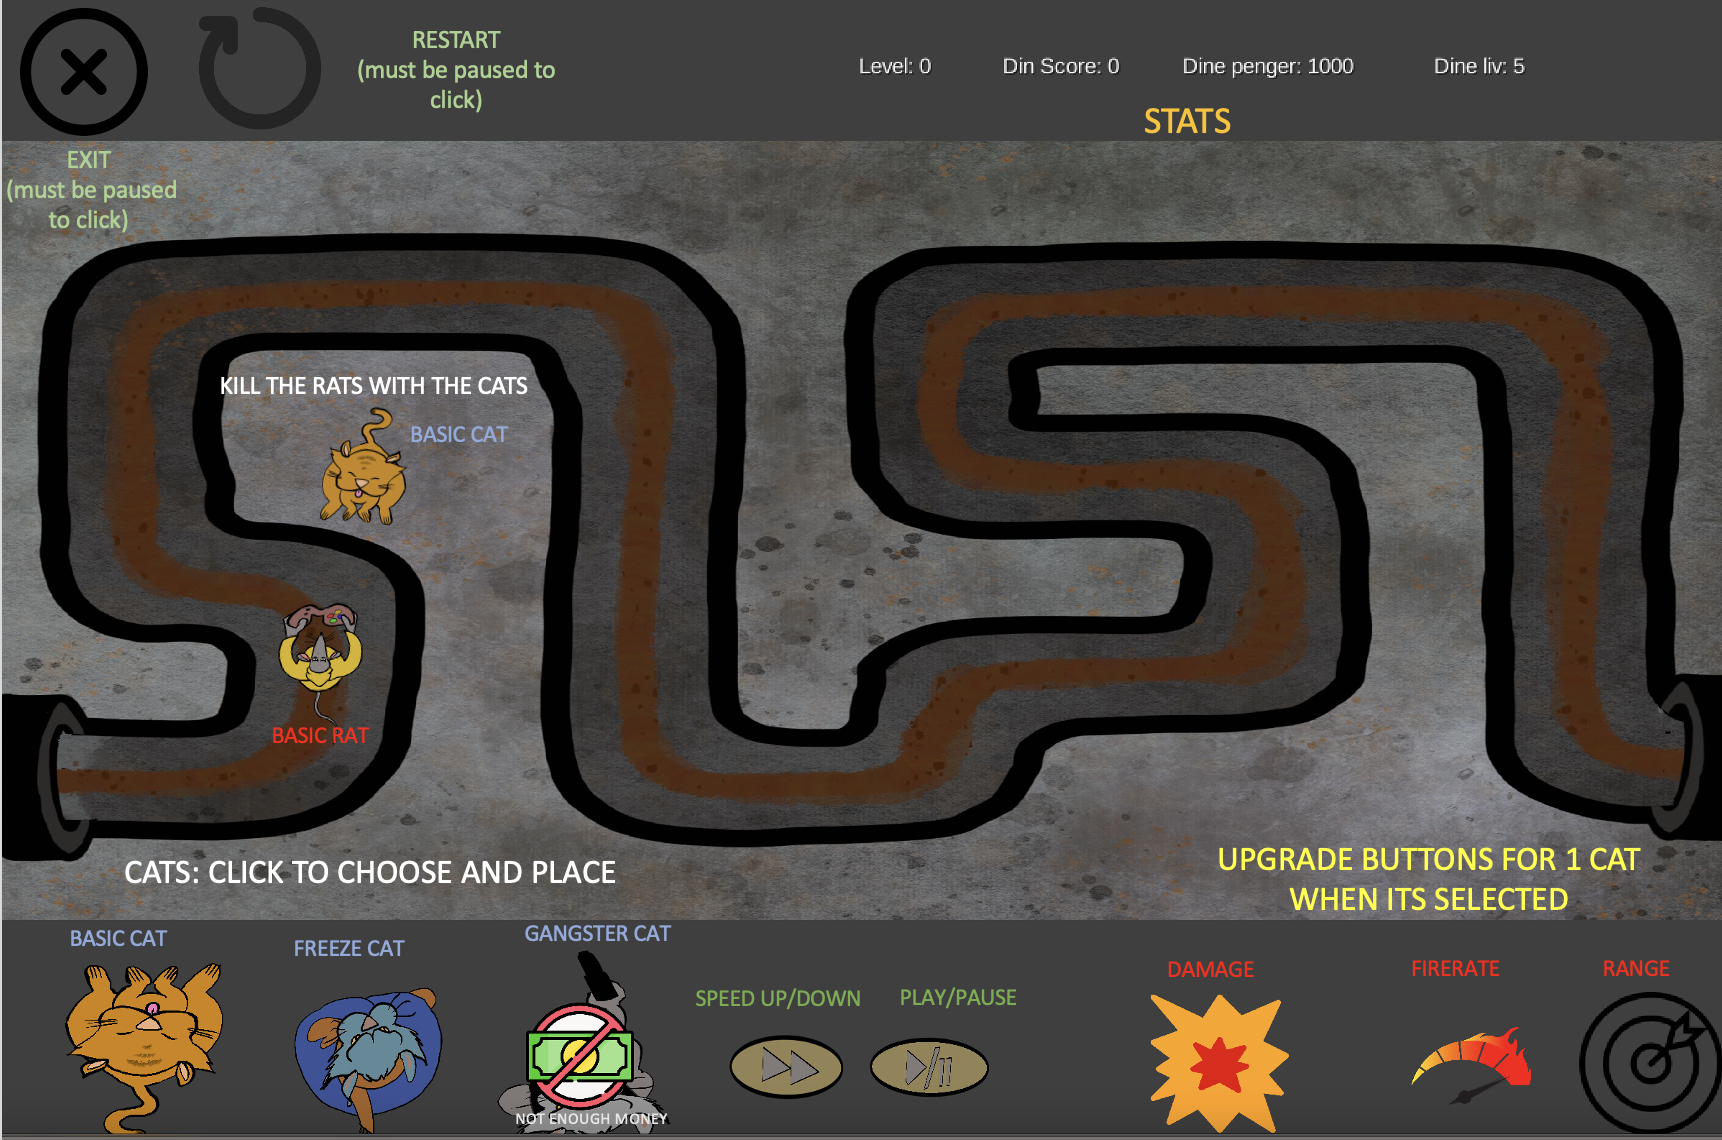
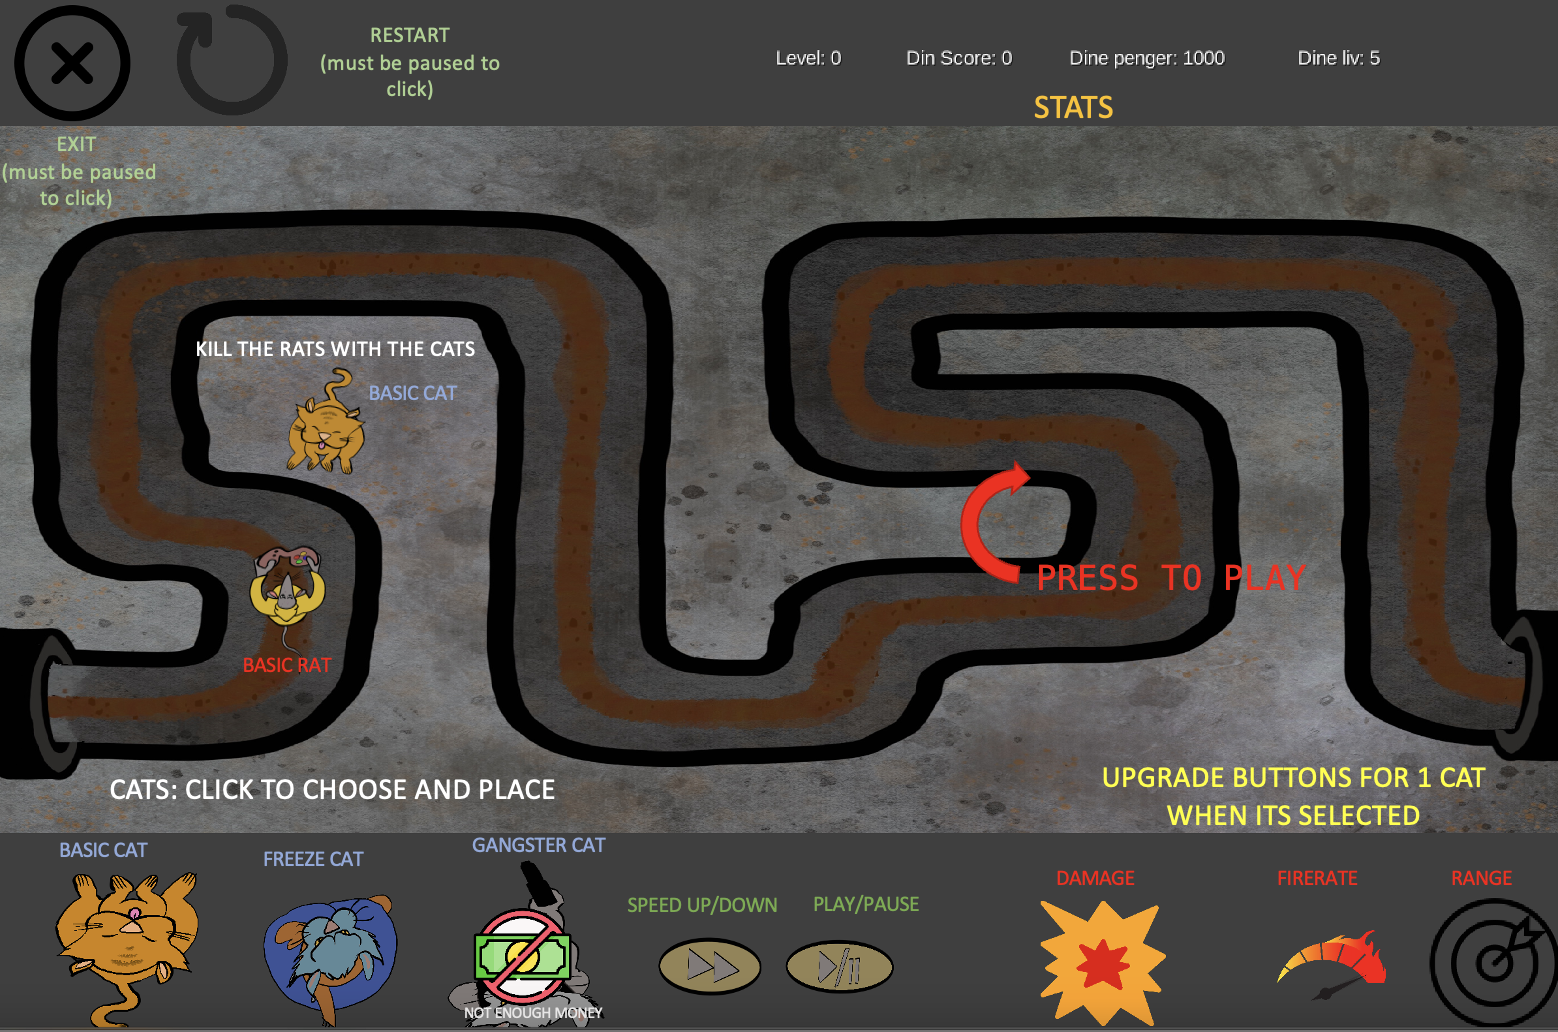
Fixed helpstate, updated pos and image for buttons, need new help image

diff --git a/src/main/java/inf112/skeleton/app/controller/buttons/menu/MenuButtons.java b/src/main/java/inf112/skeleton/app/controller/buttons/menu/MenuButtons.java
@@ -7,21 +7,20 @@ import com.badlogic.gdx.scenes.scene2d.ui.Button;
 import com.badlogic.gdx.scenes.scene2d.utils.ClickListener;
 import com.badlogic.gdx.scenes.scene2d.utils.TextureRegionDrawable;
 
-
 import inf112.skeleton.app.controller.buttons.ButtonFactory;
 import inf112.skeleton.app.model.SkadedyrModel;
 import inf112.skeleton.app.view.States.PlayState;
+import inf112.skeleton.app.view.States.HelpState;
 import inf112.skeleton.app.view.States.MenuState;
-
-
 
 public class MenuButtons implements IMenuButtons {
     private SkadedyrModel model;
     private Stage stage;
     private Button pauseButton;
     private Button speedButton;
-    private final static int BUTTON_HEIGHT=50; 
-    
+    private final static int BUTTON_HEIGHT = 50;
+    private final static int MENU_BUTTONS_HEIGHT = 750;
+
 
     public MenuButtons(SkadedyrModel model, Stage stage) {
         this.model = model;
@@ -32,8 +31,8 @@ public class MenuButtons implements IMenuButtons {
     @Override
     public Button exitButton() {
         Button exitButton = ButtonFactory.createImageButton("buttons_game/Spill_Exit.png", "buttons_game/angryCat.png");
-        exitButton.setSize(100, 100);
-        exitButton.setPosition(10, 740);
+        exitButton.setSize(150, 75);
+        exitButton.setPosition(5, MENU_BUTTONS_HEIGHT);
         exitButton.addListener(new ClickListener() {
             @Override
             public void clicked(com.badlogic.gdx.scenes.scene2d.InputEvent event, float x, float y) {
@@ -49,7 +48,7 @@ public class MenuButtons implements IMenuButtons {
         pauseButton = ButtonFactory.createImageButton("buttons_game/Spill_Pause_Pause.png",
                 "buttons_game/Spill_Pause_Play.png");
         pauseButton.setSize(100, 100);
-        pauseButton.setPosition(600, 70);
+        pauseButton.setPosition(440, MENU_BUTTONS_HEIGHT - 10);
         pauseButton.addListener(new ClickListener() {
             @Override
             public void clicked(com.badlogic.gdx.scenes.scene2d.InputEvent event, float x, float y) {
@@ -62,12 +61,20 @@ public class MenuButtons implements IMenuButtons {
 
     @Override
     public Button playButton() {
-        Button playButton = ButtonFactory.createImageButton("buttons_game/Spill_Play_Up.png", "buttons_game/Spill_Play_Down.png");
+
+        Button playButton = ButtonFactory.createImageButton("buttons_game/Spill_Play_Up.png",
+                "buttons_game/Spill_Play_Down.png");
         playButton.setSize(200, 100);
-        if (model.getState() instanceof MenuState) {
-            playButton.setPosition((stage.getWidth() - playButton.getWidth()) / 2, stage.getHeight() - 500); 
-        } else {
-            playButton.setPosition(500, 500);
+
+        if (model.getState() instanceof PlayState) {
+            playButton.setPosition(800, 400);
+
+        } else if (model.getState() instanceof MenuState) {
+            playButton.setPosition(800, 400);
+        }
+
+        else {
+            playButton.setPosition((stage.getWidth() - playButton.getWidth()) / 2 - 200, BUTTON_HEIGHT);
         }
         playButton.addListener(new ClickListener() {
             @Override
@@ -83,31 +90,32 @@ public class MenuButtons implements IMenuButtons {
         Button helpButton = ButtonFactory.createImageButton("buttons_game/Spill_Help.png",
                 "buttons_game/Spill_Help.png");
         helpButton.setSize(100, 100);
-        
+
         if (model.getState() instanceof MenuState) {
-            helpButton.setPosition((stage.getWidth() - helpButton.getWidth()) / 2, stage.getHeight() - 200); 
+            helpButton.setPosition(340, MENU_BUTTONS_HEIGHT - 10);
+        } else if (model.getState() instanceof HelpState) {
+            helpButton.setPosition(340, MENU_BUTTONS_HEIGHT - 10) ;
         } else {
-            helpButton.setPosition(270, 750);
+            helpButton.setPosition((stage.getWidth() - helpButton.getWidth()) / 2 + 200, BUTTON_HEIGHT);
         }
 
         helpButton.addListener(new ClickListener() {
             @Override
             public void clicked(com.badlogic.gdx.scenes.scene2d.InputEvent event, float x, float y) {
-                if(model.isPaused())
+                if (model.isPaused())
                     model.setHelp();
-              
+
             }
         });
         return helpButton;
     }
 
-
     @Override
     public Button restarButton() {
         Button restartButton = ButtonFactory.createImageButton("buttons_game/Spill_Restart.png",
                 "buttons_game/angryCat.png");
-        restartButton.setSize(85, 85);
-        restartButton.setPosition(140, 750);
+        restartButton.setSize(150, 75);
+        restartButton.setPosition(140, MENU_BUTTONS_HEIGHT);
         restartButton.addListener(new ClickListener() {
             @Override
             public void clicked(com.badlogic.gdx.scenes.scene2d.InputEvent event, float x, float y) {
@@ -122,7 +130,7 @@ public class MenuButtons implements IMenuButtons {
     public Button speedButton() {
         speedButton = ButtonFactory.createImageButton("buttons_game/Spill_FF.png", "buttons_game/Spill_FF_Down.png");
         speedButton.setSize(100, 100);
-        speedButton.setPosition(500, 70);
+        speedButton.setPosition(540, MENU_BUTTONS_HEIGHT - 10);
         speedButton.addListener(new ClickListener() {
             @Override
             public void clicked(com.badlogic.gdx.scenes.scene2d.InputEvent event, float x, float y) {

diff --git a/src/main/java/inf112/skeleton/app/view/States/PlayState.java b/src/main/java/inf112/skeleton/app/view/States/PlayState.java
@@ -58,7 +58,6 @@ public class PlayState extends State {
         stage.addActor(menu.helpButtonPlay());
         stage.addActor(menu.restarButton());
 
-
         upgrade = new UpgradeButtons(model, stage);
 
         upgradeFireRateButton = upgrade.upgradeFireRateButton();
@@ -91,6 +90,7 @@ public class PlayState extends State {
 
         batch.setColor(1, 1, 1, alpha);
         batch.draw(mapTexture, 0, 200, Gdx.graphics.getWidth(), Gdx.graphics.getHeight() - 300);
+
         batch.end();
 
         Gdx.gl.glEnable(GL20.GL_BLEND);
@@ -137,11 +137,13 @@ public class PlayState extends State {
     }
 
     private void drawGameStatus(SpriteBatch batch) {
-        font.draw(batch, "Dine liv: " + model.getLives(), 1000, 800);
-        font.draw(batch, "Dine penger: " + model.getMoney(), 825, 800);
-        font.draw(batch, "Din Score: " + model.getPoints(), 700, 800);
-        font.draw(batch, "Level: " + model.getLevel(), 600, 800);
+        font.draw(batch, "Dine liv: " + model.getLives(), 1100, 800);
+        font.draw(batch, "Dine penger: " + model.getMoney(), 925, 800);
+        font.draw(batch, "Din Score: " + model.getPoints(), 800, 800);
+        font.draw(batch, "Level: " + model.getLevel(), 700, 800);
         font.draw(batch, model.nextWaveText(), 500, 150);
+        
+
         font.setColor(Color.WHITE);
 
     }

diff --git a/src/main/java/inf112/skeleton/app/model/SkadedyrModel.java b/src/main/java/inf112/skeleton/app/model/SkadedyrModel.java
@@ -50,10 +50,13 @@ public class SkadedyrModel implements ISkadedyrModel {
         this.catMenu = new CatMenu();
         this.aliveRats = new ArrayList<>();
         this.currentState = null;
+        
+        
     }
 
     public void initCatMenu() {
         catMenu.init();
+        
     }
     
     public void setState(State newState){
@@ -140,6 +143,7 @@ public class SkadedyrModel implements ISkadedyrModel {
         ratFactory.updateRatFactory(deltaTime, level);
         writeText = true;
         nextWaveText();
+
         setPause();
         for (Cat cat : cats) {
             cat.resetAttackTimer();
@@ -164,9 +168,13 @@ public class SkadedyrModel implements ISkadedyrModel {
     public String nextWaveText() {
         if (writeText) {
             return "Round over. Press unPause to continue.";
+        } else if (level == 0) {
+            return "Press unPause to start";
         }
         return "";
     }
+
+    
 
     private void updateCatAnimations(float deltaTime) {
         for (Cat cat : cats) {
